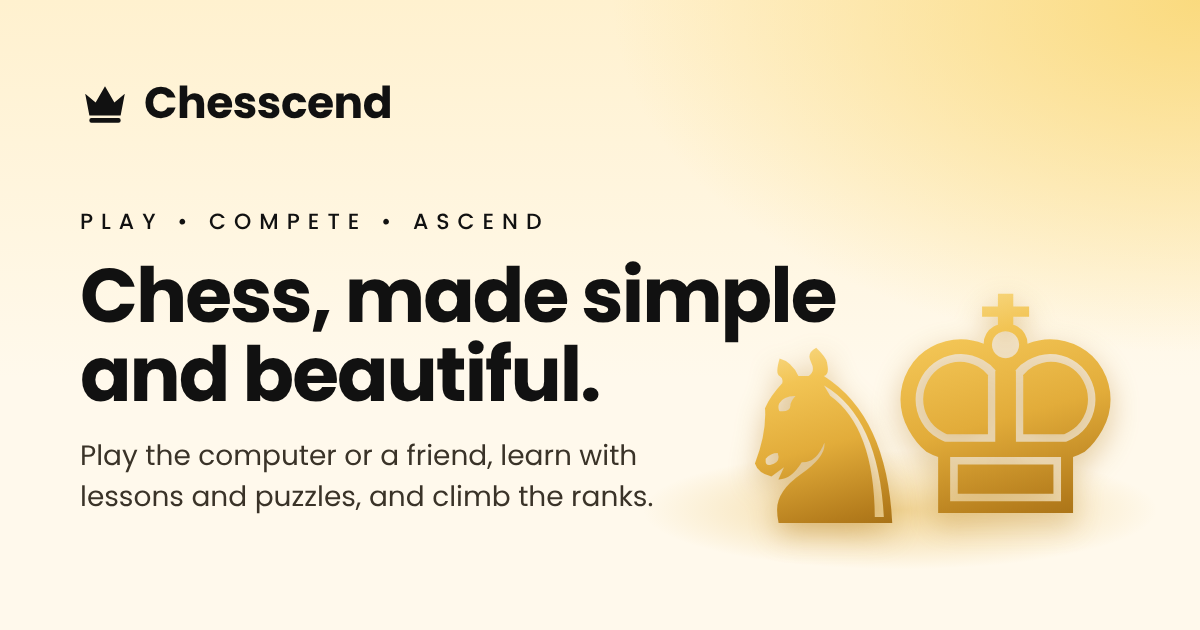
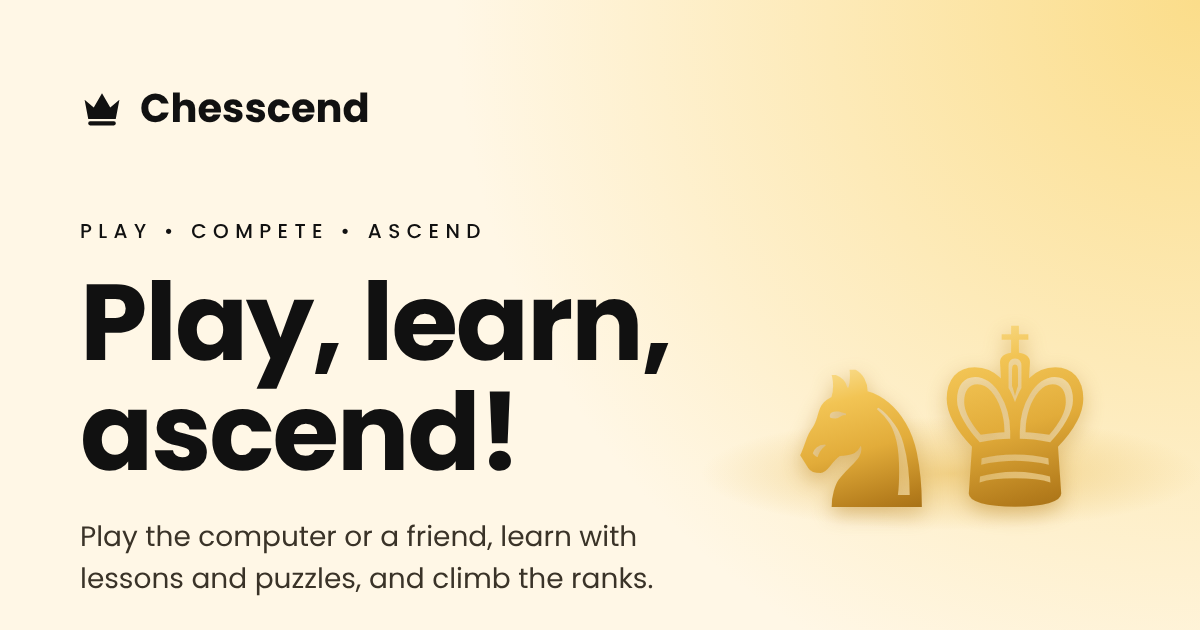
Accueil EN : nouveau titre « Play, learn, ascend! » et image de partage mise à jour
Claude-Session: https://claude.ai/code/session_01Q2UbNARurD4DgwVSFKJjFc

diff --git a/web/index.html b/web/index.html
@@ -20,7 +20,7 @@
   <meta property="og:image" content="https://sabriasna.github.io/Chesscend/web/img/og-image.png">
   <meta property="og:image:width" content="1200">
   <meta property="og:image:height" content="630">
-  <meta property="og:image:alt" content="Chesscend: Chess, made simple and beautiful. Golden knight and king.">
+  <meta property="og:image:alt" content="Chesscend: Play, learn, ascend! Golden knight and king.">
   <meta property="og:locale" content="en_GB">
   <meta name="twitter:card" content="summary_large_image">
   <meta name="twitter:title" content="Chesscend · Play. Compete. Ascend.">

diff --git a/web/js/lang/en.js b/web/js/lang/en.js
@@ -121,7 +121,7 @@ export default {
   'stats.gamesVsComputer': 'Games vs computer',
 
   // home
-  'home.headline': 'Chess, made simple<br>and beautiful.',
+  'home.headline': 'Play, learn,<br>ascend!',
   'home.lead': 'Play the computer or a friend, learn with short lessons and puzzles, and let a friendly coach explain your mistakes.',
   'home.startLearning': 'Start learning',
   'home.continueGame': 'Continue your game',
